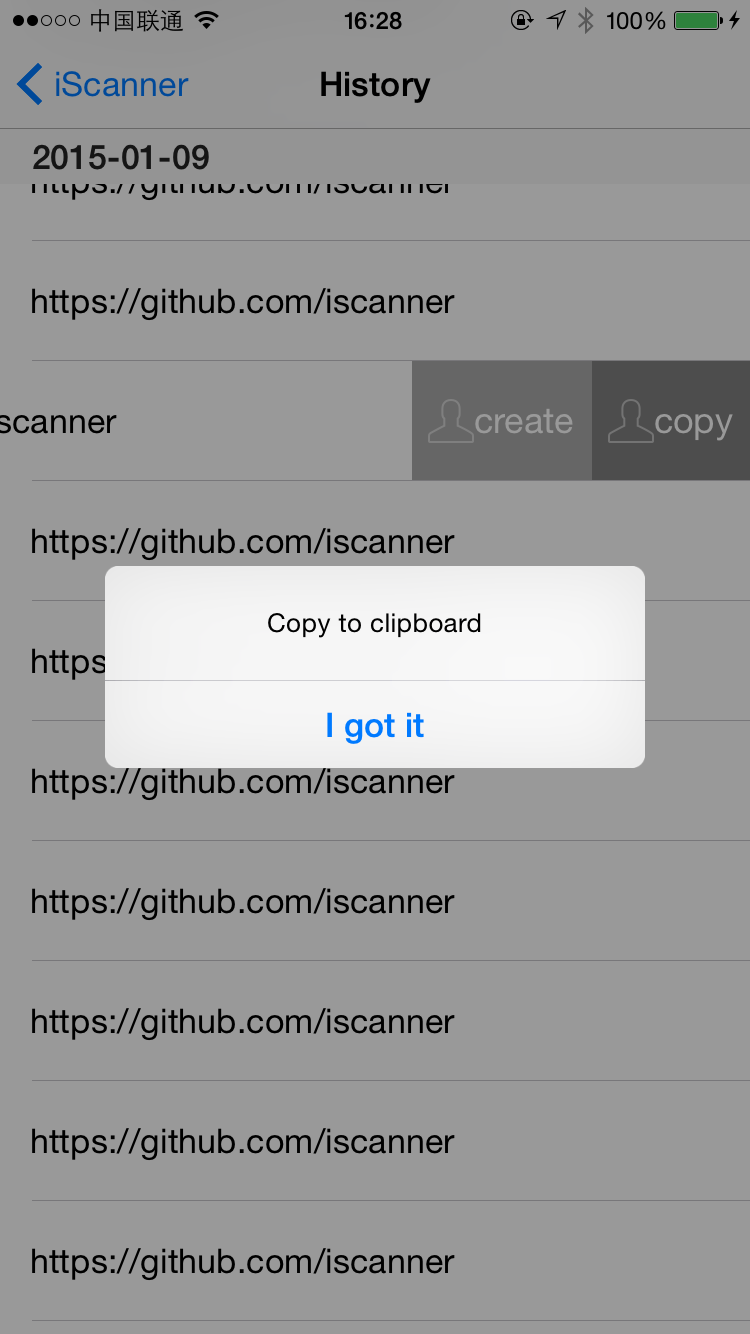
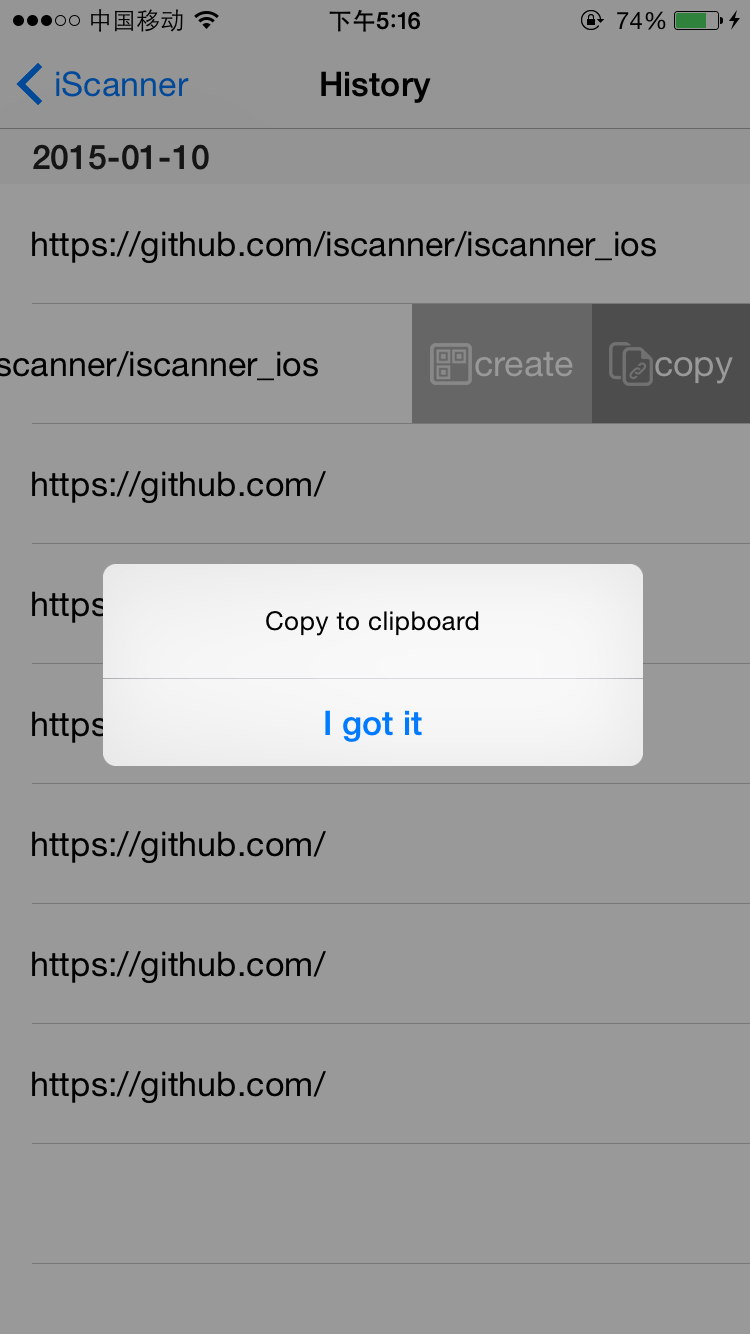
publish 1.1.0

diff --git a/iscanner_ios/HistoryController.m b/iscanner_ios/HistoryController.m
@@ -123,7 +123,13 @@ static NSString * const cellIdentifier = @"swipetablecell";
 }
 
 - (UIImage *)swipeableCell:(SwipeableCell *)cell imageForButtonAtIndex:(NSInteger)index {
-  return [UIImage imageNamed:@"user"];
+  NSString *res;
+  if (index == 0) {
+    res = @"copy";
+  } else {
+    res = @"qrcode";
+  }
+  return [UIImage imageNamed: res];
 }
 
 - (UIColor *)swipeableCell:(SwipeableCell *)cell backgroundColorForButtonAtIndex:(NSInteger)index {
